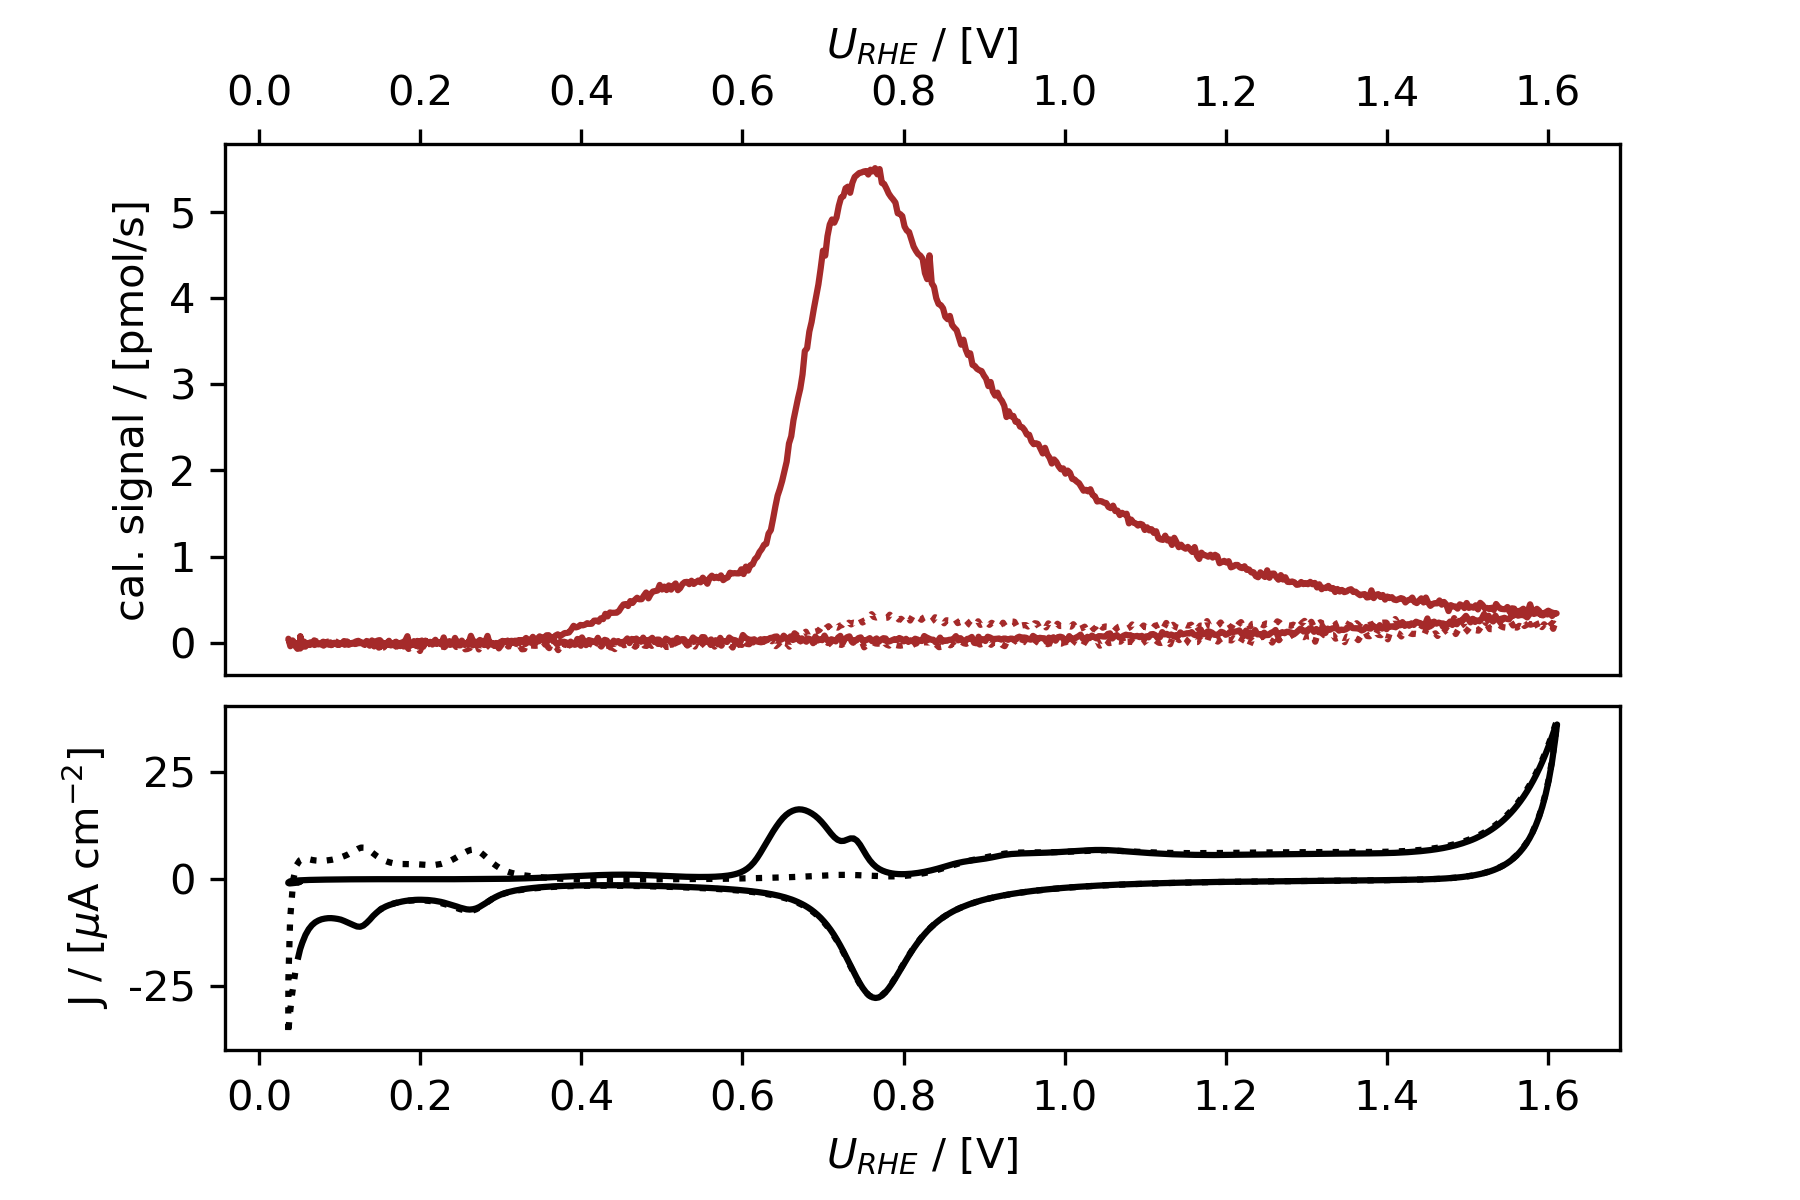
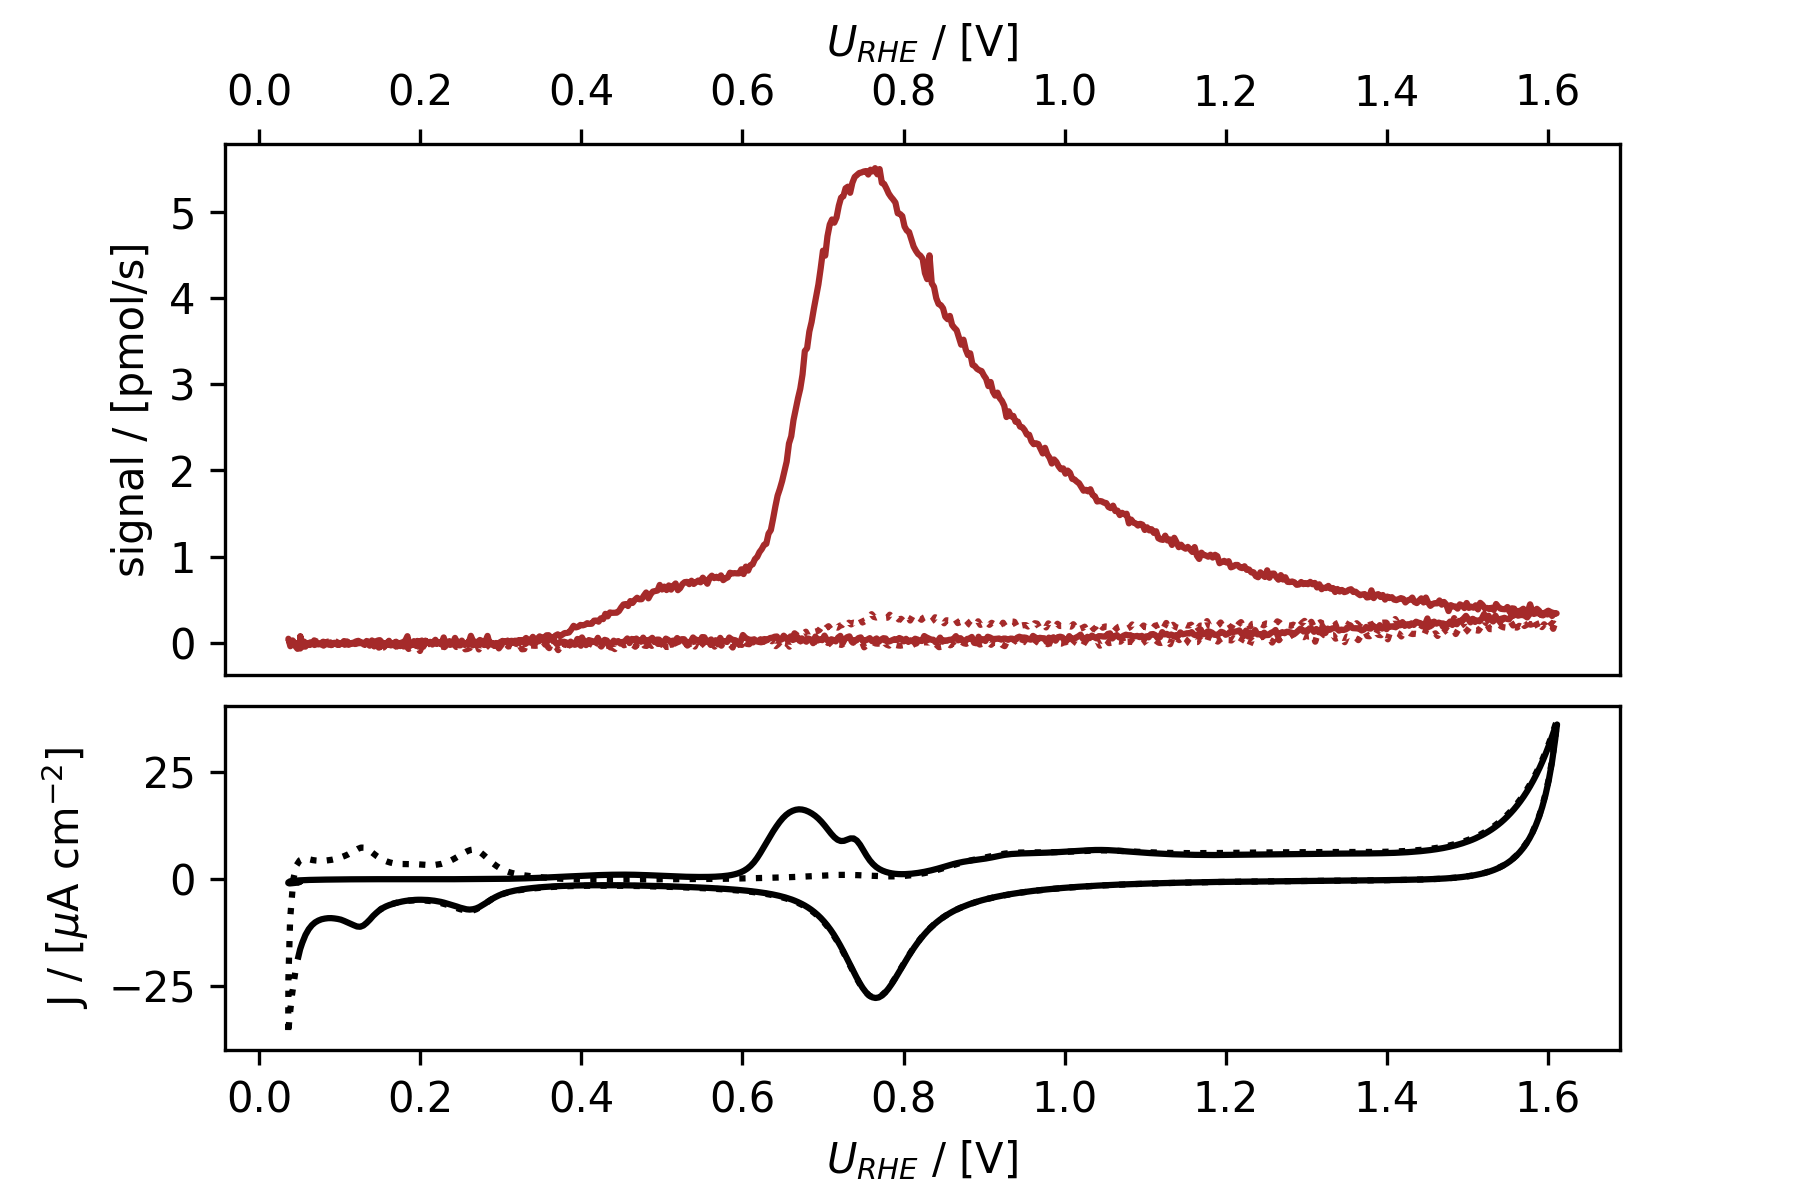
Prepare integrate+calibrate for ixdat v0.2.1dev

diff --git a/CO_strip_application_note/CO_stip_application_note_for_sharing_anw.py b/CO_strip_application_note/CO_stip_application_note_for_sharing_anw.py
@@ -24,9 +24,10 @@ DATA_SOURCE = "ixdat"
 # DATA_SOURCE can be "raw" (for importing EC and MS data from Zilien .tsv file),
 # "raw_biologic" (to import MS data from Zilien .tsv files and EC data from 
 # BioLogic .mpt files), or "ixdat" (for importing ixdat .csv files)
-WHICH_PART = "vs_potenial"
-# WHICH_PART can be "vs_time", "vs_potential", "integrate+calibrate"
-WHICH_REFERENCE = "reference_cycle"
+WHICH_PART = "integrate+calibrate"
+# WHICH_PART can be "vs_time", "vs_potential", "integrate+calibrate". Note that 
+# the combination of DATA_SOURCE="raw" and "integrate+calibrate" is not possible.
+WHICH_REFERENCE = "2nd_cycle"
 # WHICH_REFERENCE determines which cycle is used as a baseline cycle for the 
 # CO strip. Can be "reference_cycle" (separate measurement), or "2nd_cycle"
 # (cycle directly after CO strip) 
@@ -94,11 +95,11 @@ def main():
     else:
         raise NameError("DATA_SOURCE not recognized.")
     # add an EC calibration
-    full_data.calibrate(RE_vs_RHE=0, A_el=0.196)
     # and because we'd like a different unit on the EC data but this is not implemented
     # in ixdat yet, we use a trick where we define a different surface area and then
     # manually change the labels in the plots.
-    full_data.calibrate(A_el=0.000196) #this is equal to converting from mA/cm2 to muA/cm2
+    ec_data.calibrate(RE_vs_RHE=0, A_el=0.000196)
+    full_data.calibrate(RE_vs_RHE=0, A_el=0.000196) #this is equal to converting from mA/cm2 to muA/cm2
     
     # TODO make sure that everything below can actually run from full_data only.
     # This means in particular all the data treatment of the EC files has to be 
@@ -174,14 +175,13 @@ def main():
         ec_co_strip = ec_data.cut(tspan=[12250, 14200])  
         ec_co_strip_cv = ec_co_strip.as_cv()
         ec_co_strip_cv.redefine_cycle(start_potential=0.05, redox=False)
-        # ec_co_strip_cv.tstamp +=12250
-        
+               
         if WHICH_REFERENCE == "reference_cycle":
             ec_co_blank = ec_data.cut(tspan=[7150, 9070])  
             ec_co_blank_cv = ec_co_blank.as_cv()
             ec_co_blank_cv.redefine_cycle(start_potential=0.05, redox=False)
-            # ec_co_blank_cv.tstamp +=7150
             cv_diff = ec_co_strip_cv[1].diff_with(ec_co_blank_cv[1])
+            #integrate "raw_current" so that it's not affected by SA normalization
             Q_CO_ox_blank = cv_diff.integrate("raw_current", vspan=[0.4, 0.9]) * 1e-3  # 1e-3 converts mC --> C
             n_CO_ox_blank = Q_CO_ox_blank / (ixdat.constants.FARADAY_CONSTANT * 2)
             SA_blank = Q_CO_ox_blank*1e6/340 #muC/cm2  
@@ -189,6 +189,7 @@ def main():
         
         elif WHICH_REFERENCE == "2nd_cycle":
             cv_diff = ec_co_strip_cv[1].diff_with(ec_co_strip_cv[2])
+            #integrate "raw_current" so that it's not affected by SA normalization
             Q_CO_ox = cv_diff.integrate("raw_current", vspan=[0.4, 0.9]) * 1e-3  # 1e-3 converts mC --> C
             n_CO_ox = Q_CO_ox / (ixdat.constants.FARADAY_CONSTANT * 2)
             SA = Q_CO_ox*1e6/340 #muC/cm2
@@ -202,8 +203,6 @@ def main():
         # that color in your local ixdat ec_plotter.py (and then preferably
         # change it back)        
         ax_cvdiff = cv_diff.plot()
-        ax_cvdiff.set_yticks([-0.04, -0.03, -0.02, -0.01, 0, 0.01, 0.02, 0.03, 0.04 ])
-        ax_cvdiff.set_yticklabels([-40, -30, -20, -10, 0, 10, 20, 30, 40])
         ax_cvdiff.set_ylabel("J / [$\mu$A cm$^{-2}$]")
         cvdiff_fig = ax_cvdiff.get_figure()
         if SAVE_FIGURES is True:
@@ -216,9 +215,9 @@ def main():
         
         if WHICH_REFERENCE == "reference_cycle":
             axes_co2_blank = co_blank_cv.plot_measurement(mass_list=["M44"], logplot=False, legend=False)
-            # integrate and define a background
+            axes_co2_blank[3].set_ylabel("J / [$\mu$A cm$^{-2}$]")
+            # integrate and define a background + add to plot
             co2_int_blank = co_blank_cv[1].integrate_signal('M44', tspan=[750, 1100], tspan_bg=[700, 750], ax=axes_co2_blank[0])
-            # check by plotting
             if SAVE_FIGURES is True:
                 axes_co2_blank[0].get_figure().savefig(FIGURES_DIR / ("CO_blank_CV_integrated_vs_time" + FIGURE_TYPE))
             # calculate sensitivity factor F
@@ -230,9 +229,7 @@ def main():
             raise NameError("WHICH_REFERENCE not recognized.")
             
         axes_co2_strip[0].set_ylabel("MS signal / [A]")
-        axes_co2_strip[2].set_yticks([-0.025, 0, 0.025])
-        axes_co2_strip[2].set_yticklabels([-25, 0, 25])
-        axes_co2_strip[2].set_ylabel("J / [$\mu$A cm$^{-2}$]")
+        axes_co2_strip[3].set_ylabel("J / [$\mu$A cm$^{-2}$]")
         if SAVE_FIGURES is True:
             axes_co2_strip[0].get_figure().savefig(FIGURES_DIR / ("CO_strip_CV_integrated_vs_time_" + WHICH_REFERENCE + FIGURE_TYPE))
         
@@ -247,10 +244,10 @@ def main():
                 cal_type="internal",
             )
         # and make a plot with calibrated CO2 signal vs potential
-        co_strip.calibration = ECMSCalibration(ms_cal_results=[cal_co2], RE_vs_RHE=0, A_el=0.196)
+        co_strip.calibrate(ms_cal_results=[cal_co2])
         strip_cycle = co_strip.cut(tspan=[500, 1290])
-        if WHICH_REFERENCE == "reference_cycle":
-            co_blank_cv.calibration = ECMSCalibration(ms_cal_results=[cal_co2], RE_vs_RHE=0, A_el=0.196)    
+        if WHICH_REFERENCE == "reference_cycle": 
+            co_blank_cv.calibrate(ms_cal_results=[cal_co2])
             bas_cycle = co_blank_cv[1]
             tspan_background = [700,750]
         elif WHICH_REFERENCE == "2nd_cycle":
@@ -259,14 +256,10 @@ def main():
         else: #this is technically not required here, but left in anyway
             raise NameError("WHICH_REFERENCE not recognized.")
         
-        axes_d = strip_cycle.plot_vs_potential(mol_list=["CO2_M44"], logplot=False, legend=False, tspan_bg=[600, 700])
-        bas_cycle.plot_vs_potential(axes=axes_d, mol_list=["CO2_M44"], logplot=False, linestyle=":", legend=False, tspan_bg=tspan_background)
+        axes_d = strip_cycle.plot_vs_potential(mol_list=["CO2"], logplot=False, legend=False, tspan_bg=[600, 700], unit="pmol/s")
+        bas_cycle.plot_vs_potential(axes=axes_d, mol_list=["CO2"], logplot=False, linestyle=":", legend=False, tspan_bg=tspan_background, unit="pmol/s")
         axes_d[0].set_xlabel("$U_{RHE}$ / [V]")
-        axes_d[0].set_yticks([0, 1e-12, 2e-12, 3e-12, 4e-12, 5e-12])
-        axes_d[0].set_yticklabels([0, 1, 2, 3, 4, 5])
-        axes_d[0].set_ylabel("cal. signal / [pmol/s]")
-        axes_d[1].set_yticks([-0.025, 0, 0.025])
-        axes_d[1].set_yticklabels([-25, 0, 25])
+        axes_d[0].set_yticks([0, 1, 2, 3, 4, 5])
         axes_d[1].set_ylabel("J / [$\mu$A cm$^{-2}$]")
         if SAVE_FIGURES is True:
             plotname = "CO_strip+2ndcycle_vs_potential_calibrated_using_"
